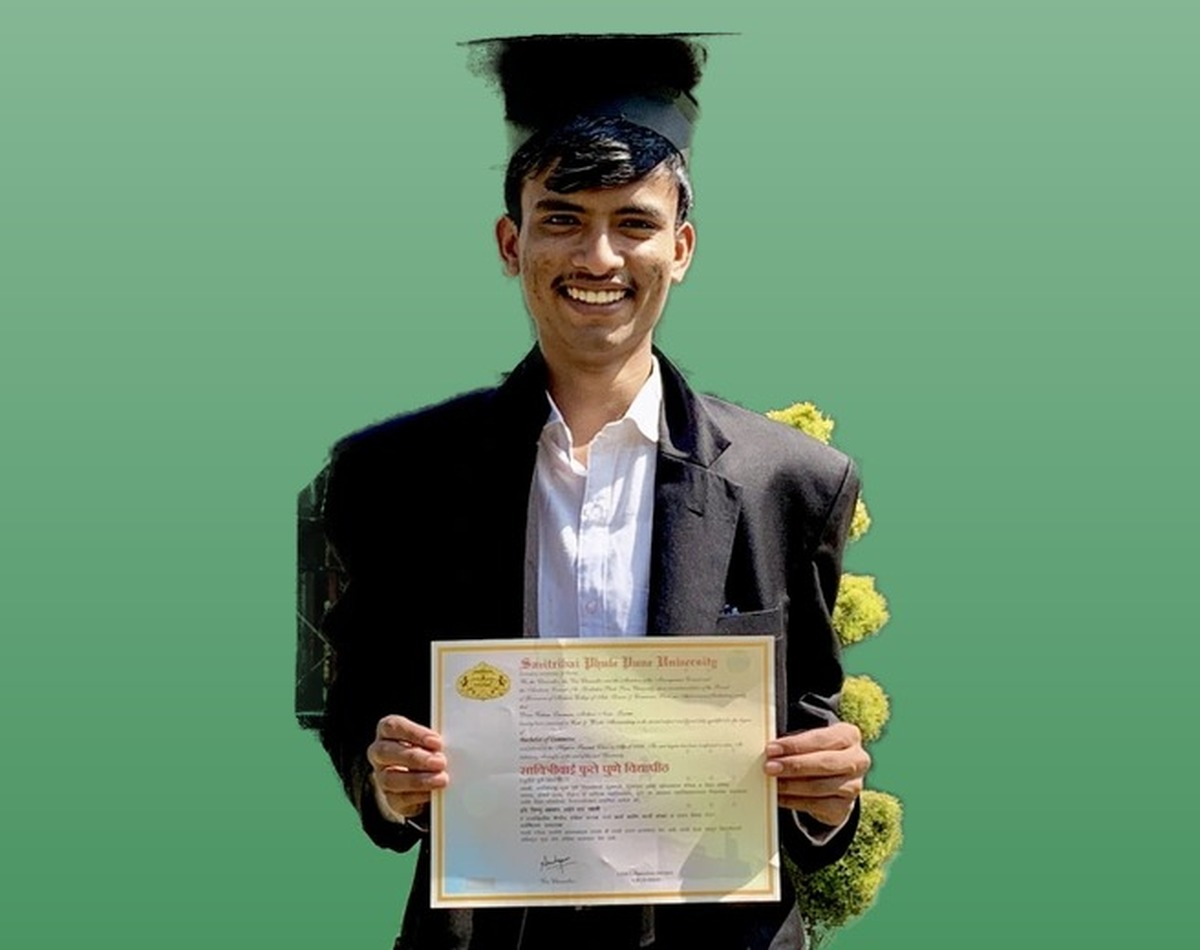
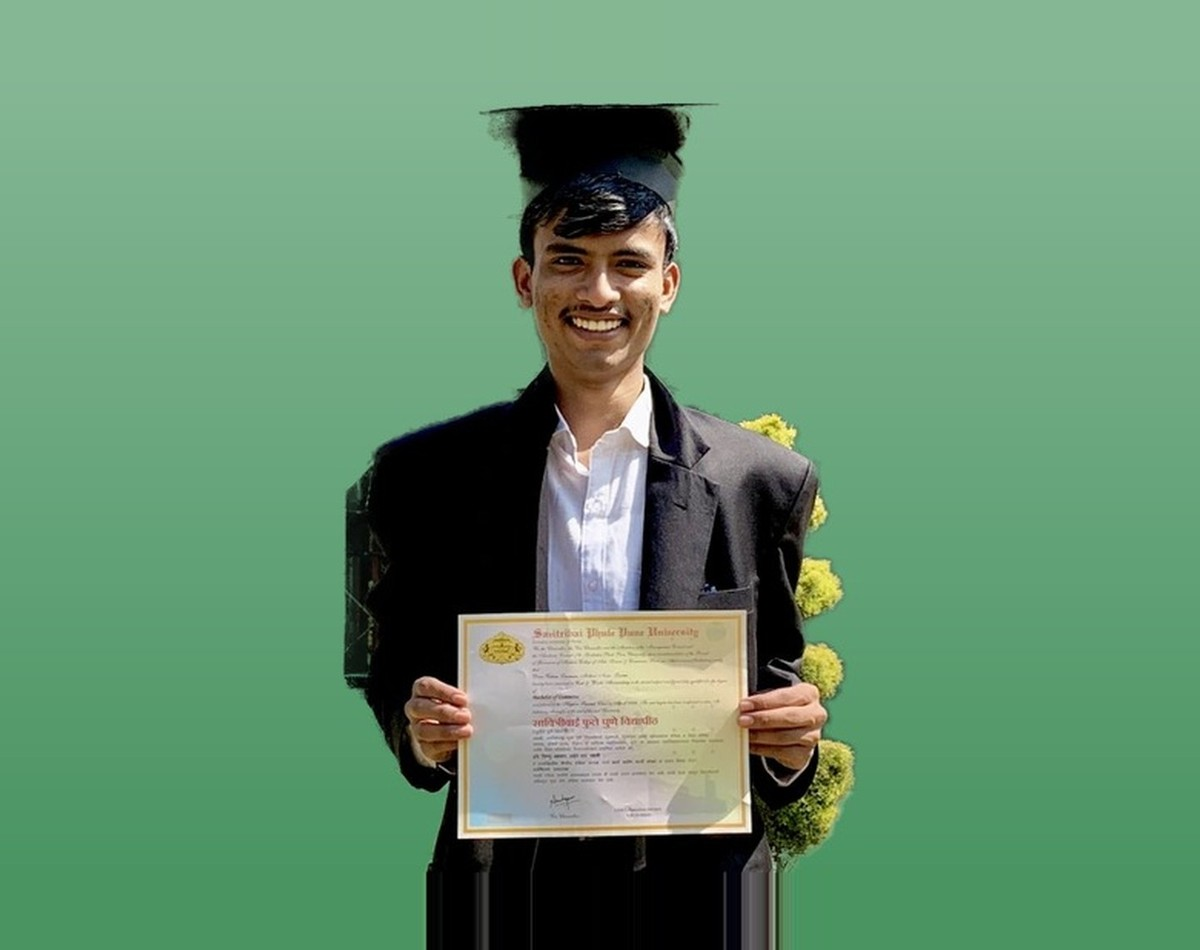
**Internships photos, Donate credibility block, full-width justified text, chevron photo fit — complete** - Internships: the second photo row now shows your four new tutoring photos in the exact order uploaded — all eight photos on the page are real RC pictures now, no stock left. - Donate page: the
Emergent-Commit-Key: 8d771fb0548979d87e1c4f3d4881eb12d8a59132546dd52ed5c5da983024cb05

Changed region(s): [[0.2467, 0.0305, 0.7708, 1.0]]

diff --git a/frontend/src/pages/Partner.jsx b/frontend/src/pages/Partner.jsx
@@ -1,10 +1,11 @@
 import { useState, useEffect } from "react";
 import { Link, useLocation } from "react-router-dom";
 import { motion, AnimatePresence } from "framer-motion";
-import { ArrowLeft, ArrowRight, ArrowUpRight, Building2, User, Gem, ShieldCheck, CheckCircle2, BadgeCheck, FileCheck2 } from "lucide-react";
+import { ArrowLeft, ArrowRight, ArrowUpRight, Building2, User, Gem, ShieldCheck, CheckCircle2 } from "lucide-react";
 import { toast } from "sonner";
 import { Reveal, Eyebrow, EASE } from "@/components/Reveal";
-import { PARTNERS, MIN_DONATION, CONVERSATION_THRESHOLD } from "@/data/content";
+import { MIN_DONATION, CONVERSATION_THRESHOLD } from "@/data/content";
+import { CredibilityGrid } from "@/pages/CsrPartners";
 import { submitInquiry, getDonationConfig, createDonationOrder, verifyDonation, loadRazorpay } from "@/lib/api";
 
 const PRESETS = [1000, 2500, 5000, 10000, 25000];
@@ -33,13 +34,6 @@ const SCHOLAR_PHOTOS = [
   { src: "/assets/tl-2.jpg", alt: "Current AimGame scholar" },
   { src: "/assets/tl-4.jpg", alt: "Current AimGame scholar" },
   { src: "/assets/tl-3.jpg", alt: "Current AimGame scholar" },
-];
-
-const TRUST_ITEMS = [
-  { icon: ShieldCheck, title: "Indian Registered Non-Profit", desc: "Receipts issued by Responsible Charity Society.", testid: "trust-registered" },
-  { icon: BadgeCheck, title: "80G Certified", desc: "Tax-deductible under Section 80G, continuously since 2012.", testid: "trust-80g" },
-  { icon: Building2, title: "CSR Approved", desc: "Structured partnerships with scholar-wise reporting.", testid: "trust-csr" },
-  { icon: FileCheck2, title: "Sec 135 Compliance", desc: "CSR documentation aligned with Section 135 of the Companies Act.", testid: "trust-audited" },
 ];
 
 const Donut = () => {
@@ -627,37 +621,10 @@ const Partner = () => {
         </div>
       </section>
 
-      <section className="pb-16">
-        <div className="max-w-7xl mx-auto px-4 sm:px-8 lg:px-16">
-          <div className="grid sm:grid-cols-2 lg:grid-cols-4 gap-4">
-            {TRUST_ITEMS.map((t, i) => (
-              <Reveal key={t.title} delay={i * 0.06}>
-                <div data-testid={t.testid} className="h-full rounded-2xl bg-white border border-ink/10 p-6 transition-all duration-300 hover:-translate-y-1 hover:border-leaf/40">
-                  <t.icon className="h-6 w-6 text-leaf" />
-                  <p className="mt-4 font-display font-bold">{t.title}</p>
-                  <p className="mt-1.5 text-xs text-ink-muted leading-relaxed">{t.desc}</p>
-                </div>
-              </Reveal>
-            ))}
-          </div>
-        </div>
-      </section>
-
       <section className="pb-24 lg:pb-32">
         <div className="max-w-7xl mx-auto px-4 sm:px-8 lg:px-16">
-          <Reveal>
-            <div id="current-partners" data-testid="current-partners-block" className="rounded-3xl bg-leaf-soft border border-leaf/15 p-8 sm:p-10">
-              <p className="font-mono text-xs tracking-[0.3em] text-leaf font-bold">CURRENT CSR PARTNERS</p>
-              <div className="mt-6 flex flex-wrap gap-x-12 gap-y-4">
-                {PARTNERS.map((p) => (
-                  <span key={p} className="font-display font-bold text-lg text-leaf-dark/70">{p}</span>
-                ))}
-              </div>
-              <p className="mt-6 text-sm text-leaf-dark/70 max-w-2xl">
-                Partners receive audited utilization reports and scholar-wise progress tracking. Join them.
-              </p>
-            </div>
-          </Reveal>
+          <Reveal><Eyebrow>Your Side, Made Easy</Eyebrow></Reveal>
+          <CredibilityGrid />
         </div>
       </section>
     </main>

diff --git a/frontend/src/pages/Program.jsx b/frontend/src/pages/Program.jsx
@@ -229,7 +229,7 @@ const PillarSection = ({ pillar }) => (
         </div>
       </Reveal>
       <Reveal delay={0.08}>
-        <p data-testid={`pillar-intro-${pillar.id}`} className="mt-4 text-leaf font-semibold text-lg sm:text-xl max-w-2xl leading-relaxed">
+        <p data-testid={`pillar-intro-${pillar.id}`} className="mt-4 text-leaf font-semibold text-lg sm:text-xl leading-relaxed">
           {pillar.intro}
         </p>
       </Reveal>
@@ -323,7 +323,7 @@ const SchoolsPillar = () => (
         </div>
       </Reveal>
       <Reveal delay={0.08}>
-        <p data-testid="pillar-intro-schools" className="mt-4 text-leaf font-semibold text-lg sm:text-xl max-w-2xl leading-relaxed">
+        <p data-testid="pillar-intro-schools" className="mt-4 text-leaf font-semibold text-lg sm:text-xl leading-relaxed">
           Our scholars study at accredited private schools, colleges and universities with years of service
           across India. These institutions are pillars of their communities, and they understand our
           students' backgrounds and challenges. Together, year after year, we help every scholar succeed.
@@ -419,7 +419,7 @@ const ParentsPillar = () => (
         </p>
       </Reveal>
       <Reveal delay={0.1}>
-        <p data-testid="pillar-intro-parents" className="mt-4 text-leaf font-semibold text-lg sm:text-xl max-w-2xl leading-relaxed">
+        <p data-testid="pillar-intro-parents" className="mt-4 text-leaf font-semibold text-lg sm:text-xl leading-relaxed">
           Parents are with us from day one. They're kept in the loop on every decision, visited at home
           by our team, and welcome at our centers for workshops and updates on their child's grades.
           Healthcare support extends to them too. When a family is part of the program, what starts in
@@ -540,7 +540,7 @@ const Program = () => {
             </p>
           </Reveal>
           <Reveal delay={0.18}>
-            <p data-testid="work-description" className="mt-8 max-w-3xl text-leaf font-semibold text-lg sm:text-xl leading-relaxed">
+            <p data-testid="work-description" className="mt-8 text-leaf font-semibold text-lg sm:text-xl leading-relaxed">
               Education alone doesn't end poverty. Our scholars also need healthy families, a real path
               to a career, strong institutions, and parents beside them. So the work rests on five pillars:
               education, healthcare, employment, schools &amp; colleges, and parents as partners.

diff --git a/frontend/src/pages/Internships.jsx b/frontend/src/pages/Internships.jsx
@@ -26,20 +26,20 @@ const INTERN_PHOTOS = [
     alt: "An intern reviewing work with two scholars at a community center",
   },
   {
-    src: "https://images.unsplash.com/photo-1771577125646-b38ed7b14411?crop=entropy&cs=srgb&fm=jpg&ixid=M3w4NjA1NTN8MHwxfHNlYXJjaHw0fHxJbmRpYW4lMjB2b2x1bnRlZXIlMjB0ZWFjaGluZyUyMGNoaWxkcmVuJTIwbWVudG9yfGVufDB8fHx8MTc5MTgxMjM4NHww&ixlib=rb-4.1.0&q=85",
-    alt: "An intern teaching children at a community center",
+    src: "/assets/internship-5.jpg",
+    alt: "An intern teaching a depreciation lesson at the chalkboard",
   },
   {
-    src: "https://images.unsplash.com/photo-1777732340202-1444ea7a8bfa?crop=entropy&cs=srgb&fm=jpg&ixid=M3w4NjAzMzl8MHwxfHNlYXJjaHwzfHxJbmRpYW4lMjB2b2x1bnRlZXIlMjBwbGF5aW5nJTIwYm9hcmQlMjBnYW1lJTIwY2hpbGRyZW4lMjBzcG9ydHN8ZW58MHx8fHwxNzkxODEyMzg0fDA&ixlib=rb-4.1.0&q=85",
-    alt: "An intern playing a board game with children",
+    src: "/assets/internship-6.jpg",
+    alt: "An intern tutoring two scholars at the library table",
   },
   {
-    src: "https://images.unsplash.com/flagged/photo-1574098335395-18cf525e45d6?crop=entropy&cs=srgb&fm=jpg&ixid=M3w4NjA1OTV8MHwxfHNlYXJjaHwxfHx0dXRvcmluZyUyMG1lbnRvcmluZyUyMHNlc3Npb24lMjBJbmRpYSUyMGNoaWxkcmVuJTIwY2xhc3Nyb29tfGVufDB8fHx8MTc5MTgxMjM4NHww&ixlib=rb-4.1.0&q=85",
-    alt: "A tutoring session at a community center",
+    src: "/assets/internship-7.jpg",
+    alt: "A study circle with an intern and scholars on the center floor",
   },
   {
-    src: "https://images.unsplash.com/photo-1572847748080-bac263fae977?crop=entropy&cs=srgb&fm=jpg&ixid=M3w4NjA2NzB8MHwxfHNlYXJjaHw0fHxJbmRpYW4lMjBzY2hvb2wlMjBjaGlsZHJlbiUyMGxlYXJuaW5nJTIwY2xhc3Nyb29tJTIwbm90ZWJvb2t8ZW58MHx8fHwxNzg4OTM1NzIzfDA&ixlib=rb-4.1.0&q=85",
-    alt: "Scholars learning together with notebooks in a classroom",
+    src: "/assets/internship-8.jpg",
+    alt: "An intern working through notebooks with a group of scholars",
   },
 ];
 

diff --git a/frontend/src/pages/CsrPartners.jsx b/frontend/src/pages/CsrPartners.jsx
@@ -158,6 +158,20 @@ const CSR_PHOTOS = [
   "A career workshop session for scholars at a partner office",
 ];
 
+export const CredibilityGrid = () => (
+  <div className="mt-8 grid sm:grid-cols-2 lg:grid-cols-4 gap-4">
+    {CREDENTIALS.map((c, i) => (
+      <Reveal key={c.title} delay={i * 0.06}>
+        <div data-testid={c.testid} className="h-full rounded-2xl bg-white border border-ink/10 p-6 transition-all duration-300 hover:-translate-y-1 hover:border-leaf/40">
+          <c.icon className="h-6 w-6 text-leaf" />
+          <p className="mt-4 font-display font-bold">{c.title}</p>
+          <p className="mt-1.5 text-xs text-ink-muted leading-relaxed">{c.desc}</p>
+        </div>
+      </Reveal>
+    ))}
+  </div>
+);
+
 const CsrPartners = () => (
   <main data-testid="csr-partners-page">
     <section className="pt-44 sm:pt-60 pb-16 relative overflow-hidden grain">
@@ -239,17 +253,7 @@ const CsrPartners = () => (
     <section className="pb-24 lg:pb-32">
       <div className="max-w-7xl mx-auto px-4 sm:px-8 lg:px-16">
         <Reveal><Eyebrow>Your Side, Made Easy</Eyebrow></Reveal>
-        <div className="mt-8 grid sm:grid-cols-2 lg:grid-cols-4 gap-4">
-          {CREDENTIALS.map((c, i) => (
-            <Reveal key={c.title} delay={i * 0.06}>
-              <div data-testid={c.testid} className="h-full rounded-2xl bg-white border border-ink/10 p-6 transition-all duration-300 hover:-translate-y-1 hover:border-leaf/40">
-                <c.icon className="h-6 w-6 text-leaf" />
-                <p className="mt-4 font-display font-bold">{c.title}</p>
-                <p className="mt-1.5 text-xs text-ink-muted leading-relaxed">{c.desc}</p>
-              </div>
-            </Reveal>
-          ))}
-        </div>
+        <CredibilityGrid />
       </div>
     </section>
   </main>

diff --git a/frontend/src/pages/About.jsx b/frontend/src/pages/About.jsx
@@ -112,7 +112,7 @@ const About = () => (
           ))}
         </div>
 
-        <div className="mt-14 max-w-6xl mx-auto space-y-7">
+        <div className="mt-14 space-y-7">
           {STORY_TEXT.map((para, i) => (
             <Reveal key={i} delay={0.08 + i * 0.08}>
               <p data-testid={`story-paragraph-${i}`} className="text-leaf font-semibold text-xl sm:text-2xl leading-relaxed">
@@ -134,13 +134,13 @@ const About = () => (
           <Reveal delay={0.08}>
             <p
               data-testid="centers-subheader"
-              className="mt-4 font-display font-bold text-2xl sm:text-3xl text-flame tracking-tight max-w-4xl"
+              className="mt-4 font-display font-bold text-2xl sm:text-3xl text-flame tracking-tight"
             >
               Two community centers, Kolkata and Pune, built for everything a scholarship alone can't provide.
             </p>
           </Reveal>
           <Reveal delay={0.14}>
-            <p data-testid="centers-description" className="mt-6 max-w-3xl text-leaf font-semibold text-lg sm:text-xl leading-relaxed">
+            <p data-testid="centers-description" className="mt-6 text-leaf font-semibold text-lg sm:text-xl leading-relaxed">
               Our community centers are where the program lives day to day. After school, students come for
               tutoring, music classes, yoga and games. Parents come for meetings and workshops. Supplies are
               distributed here, and visitors are welcome by arrangement. It's a second home for our students,

diff --git a/frontend/src/pages/Contact.jsx b/frontend/src/pages/Contact.jsx
@@ -79,7 +79,7 @@ const Contact = () => {
             </p>
           </Reveal>
 
-          <div className="mt-10 max-w-4xl space-y-6">
+          <div className="mt-10 space-y-6">
             <Reveal delay={0.18}>
               <p data-testid="contact-description-1" className="text-leaf font-semibold text-lg sm:text-xl leading-relaxed">
                 We're not chasing every donation, we're building long-term partnerships with people and
@@ -96,7 +96,7 @@ const Contact = () => {
             </Reveal>
           </div>
 
-          <div className="mt-12 max-w-4xl space-y-4">
+          <div className="mt-12 space-y-4">
             <Reveal delay={0.3}>
               <div data-testid="contact-fit-individual" className="flex flex-wrap items-center gap-x-4 gap-y-3 rounded-2xl bg-white border border-ink/10 px-6 py-5">
                 <p className="flex-1 min-w-[240px] font-semibold text-ink text-base sm:text-lg">

diff --git a/frontend/src/pages/Transformations.jsx b/frontend/src/pages/Transformations.jsx
@@ -213,7 +213,7 @@ const Transformations = () => (
           </p>
         </Reveal>
         <Reveal delay={0.18}>
-          <p data-testid="results-description" className="mt-8 max-w-3xl text-leaf font-semibold text-lg sm:text-xl leading-relaxed">
+          <p data-testid="results-description" className="mt-8 text-leaf font-semibold text-lg sm:text-xl leading-relaxed">
             Each of our graduates began as a child playing a game. Today they hold a college degree. The
             scholars below them are on the same path, one milestone at a time.
           </p>

diff --git a/memory/PRD.md b/memory/PRD.md
@@ -152,3 +152,4 @@ Brief (from PDF): A rebooted website for Responsible Charity (RC) Society, a reg
 - Results page (Oct 22, rev 2): journey-graphic section removed from Results (stays on homepage); Neha Prajapati row removed (3 graduate rows remain: Vishnu, Firdous, Karim); Student Clubs section background now WHITE with real portrait photos cut from the uploaded "Student Clubs.webp" poster (779x2000, in /app/.image-sources/students/) — 34 circular crops at /assets/students/<slug>.jpg using measured gold-ring centers; tier colors darkened for light bg
 - Site-wide batch (Oct 22, rev 3): (1) Results student circles now have a SINGLE golden CSS border (border-gold, no shadow) — the "black shadow" was the dark poster background baked into the 100px extracted portraits; all 34 re-cut from the darkbak originals to just the inner photo disc (largest bright blob via scipy ndimage, 0.78 inset, 200px) so faces fill the circles with no black. (2) Our Work: Parents as Partners rebuilt to EXACTLY match the Employment pillar layout — white section, index 05, subheader "No child makes this journey alone.", user's description, and 3 cards (IN THE LOOP FROM DAY ONE = uploaded parents-meeting-3.jpg [Kolkata], HOME VISITS = stock [Mumbai], WORKSHOPS & HEALTHCARE = stock [Pune]) each with its green city pill inside the card. (3) Force-justified subtexts confirmed site-wide via global p rule (About centers + CSR verified computed justify). (4) Internships: photos replaced by a 2-row x 4 grid — first 4 are the new uploads (internship-1..4.jpg), last 4 stock; bottom application/email form removed entirely (city email cards kept). (5) CSR Partners: justified paragraphs + two rows of five placeholder logo tiles labeled 1-10 (csr-logo-1..10), no section headers, awaiting real corporate logos. New originals persisted in /app/.image-sources/ (a1-a4 internship webps, a28 parents meeting)
 - CSR + forms batch (Oct 22, rev 4): (1) CSR Partners page now shows the 10 REAL corporate logos sliced from the user's uploaded composite ("Screenshot 2026-10-22 at 6.22.39 PM.png", original in /app/.image-sources/logos.png) as csr-logo-1..10.jpg in 2 rows of 5 — Paharpur Foundation, Rojo Integrations, KIWC, NRI, Cogfree, ISG, RDB Group, SBGS, Wesman, Ivy League House; grid-line remnants removed via line-detection + full-height line eraser. (2) Below the logos: the 8 photos sliced from the second uploaded composite (photos8.png) as csr-photo-1..8.jpg in 2 rows of 4 with rounded-lg corners (matching homepage 12-image grid rounding). (3) CSR paragraphs stretched full container width (max-w-4xl removed) + force-justified, right edge aligned with the DONATE button. (4) index.css justify rule extended to p, li, blockquote, td site-wide. (5) ALL forms (Contact, CSR, Donate payment, Partner qualify, Giving Desk) now have a "Re-enter email" field directly under Email with match validation (toast "Email addresses do not match."), and the Phone field is shortened to half width. Verified in browser: mismatch toast fires on CSR + Donate forms, all 18 CSR images load
+- Batch (Oct 22, rev 5): (1) Internships row 2 now uses the 4 new uploaded tutoring photos in order (internship-5..8.jpg; originals p5/p6/p7/p8 in /app/.image-sources/) — no stock photos remain on the page. (2) Donate page: green CURRENT CSR PARTNERS banner REMOVED and replaced with the CSR credibility block ("Your Side, Made Easy" 7-card grid) — CredibilityGrid now exported from CsrPartners.jsx and reused in Partner.jsx; the redundant 4-card TRUST_ITEMS grid was removed to avoid showing the same credentials twice; PARTNERS import dropped from Partner.jsx. (3) Full-width force-justified text on OUR WORK / RESULTS / OUR STORY / LET'S TALK: removed max-w-2xl/3xl/4xl/6xl caps from pillar intros, page descriptions, story text container and Contact content blocks so body text stretches to the container right edge (aligned with the DONATE button), justified via the global rule. (4) Chevron photo fit: all 15 scholar composites (scholar-b/c/d-1..5) re-rendered at 84% scale centered with edge-pixel-replication fill (preserves each image's own gradient seamlessly), so subjects no longer touch/cut at the chevron frame edges — applies to both the homepage ScholarStrip and the Results graduate rows since they share the same files. Originals backed up in /app/.image-sources/scholar-fit-backup/. Verified in browser: homepage rotation renders fitted panels, Vishnu row on Results fits, internships 8/8 local photos load, Donate page shows credibility block with no green banner
